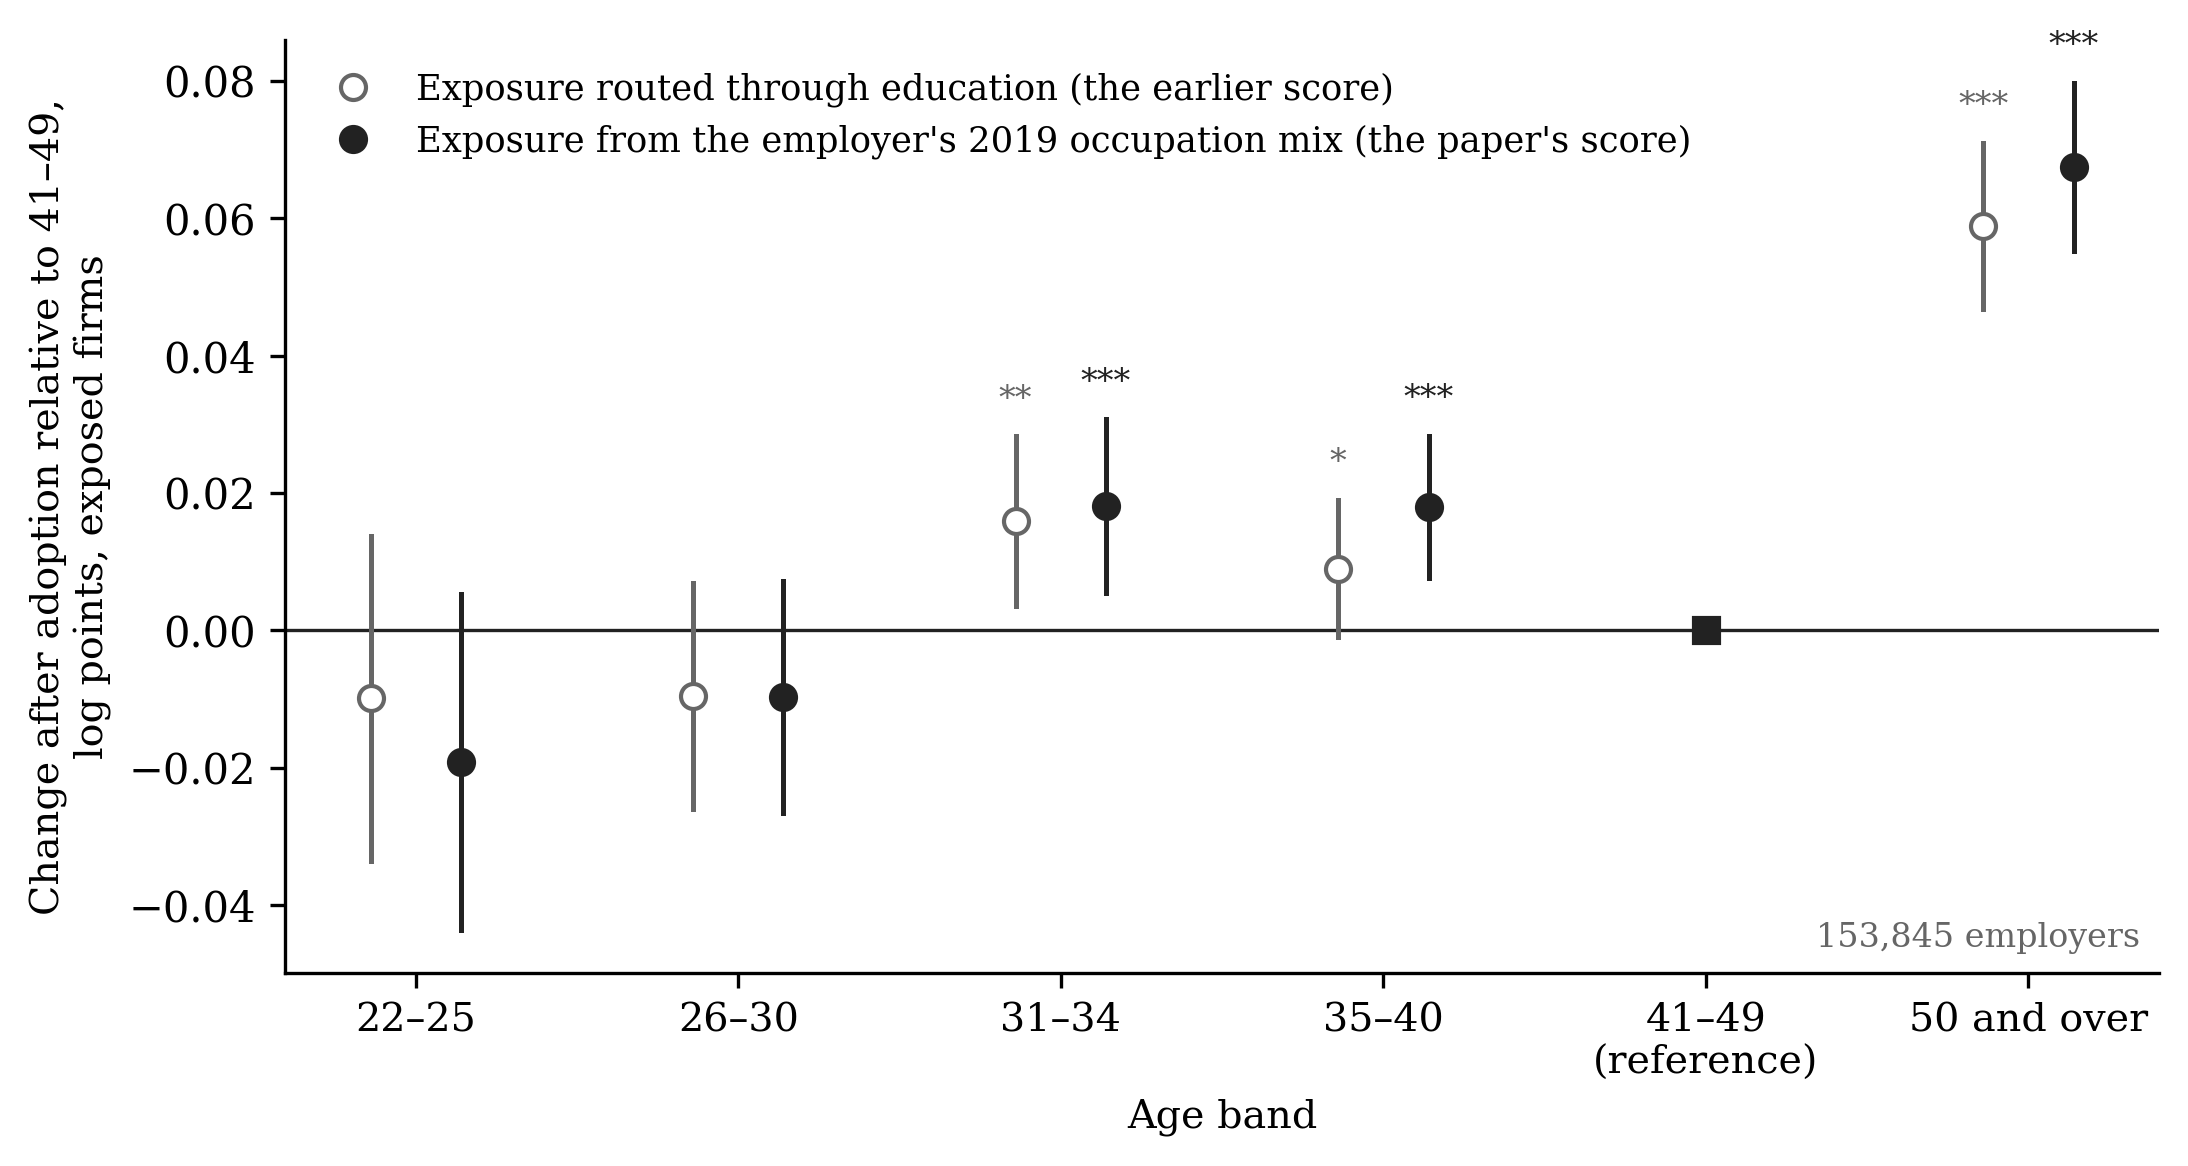
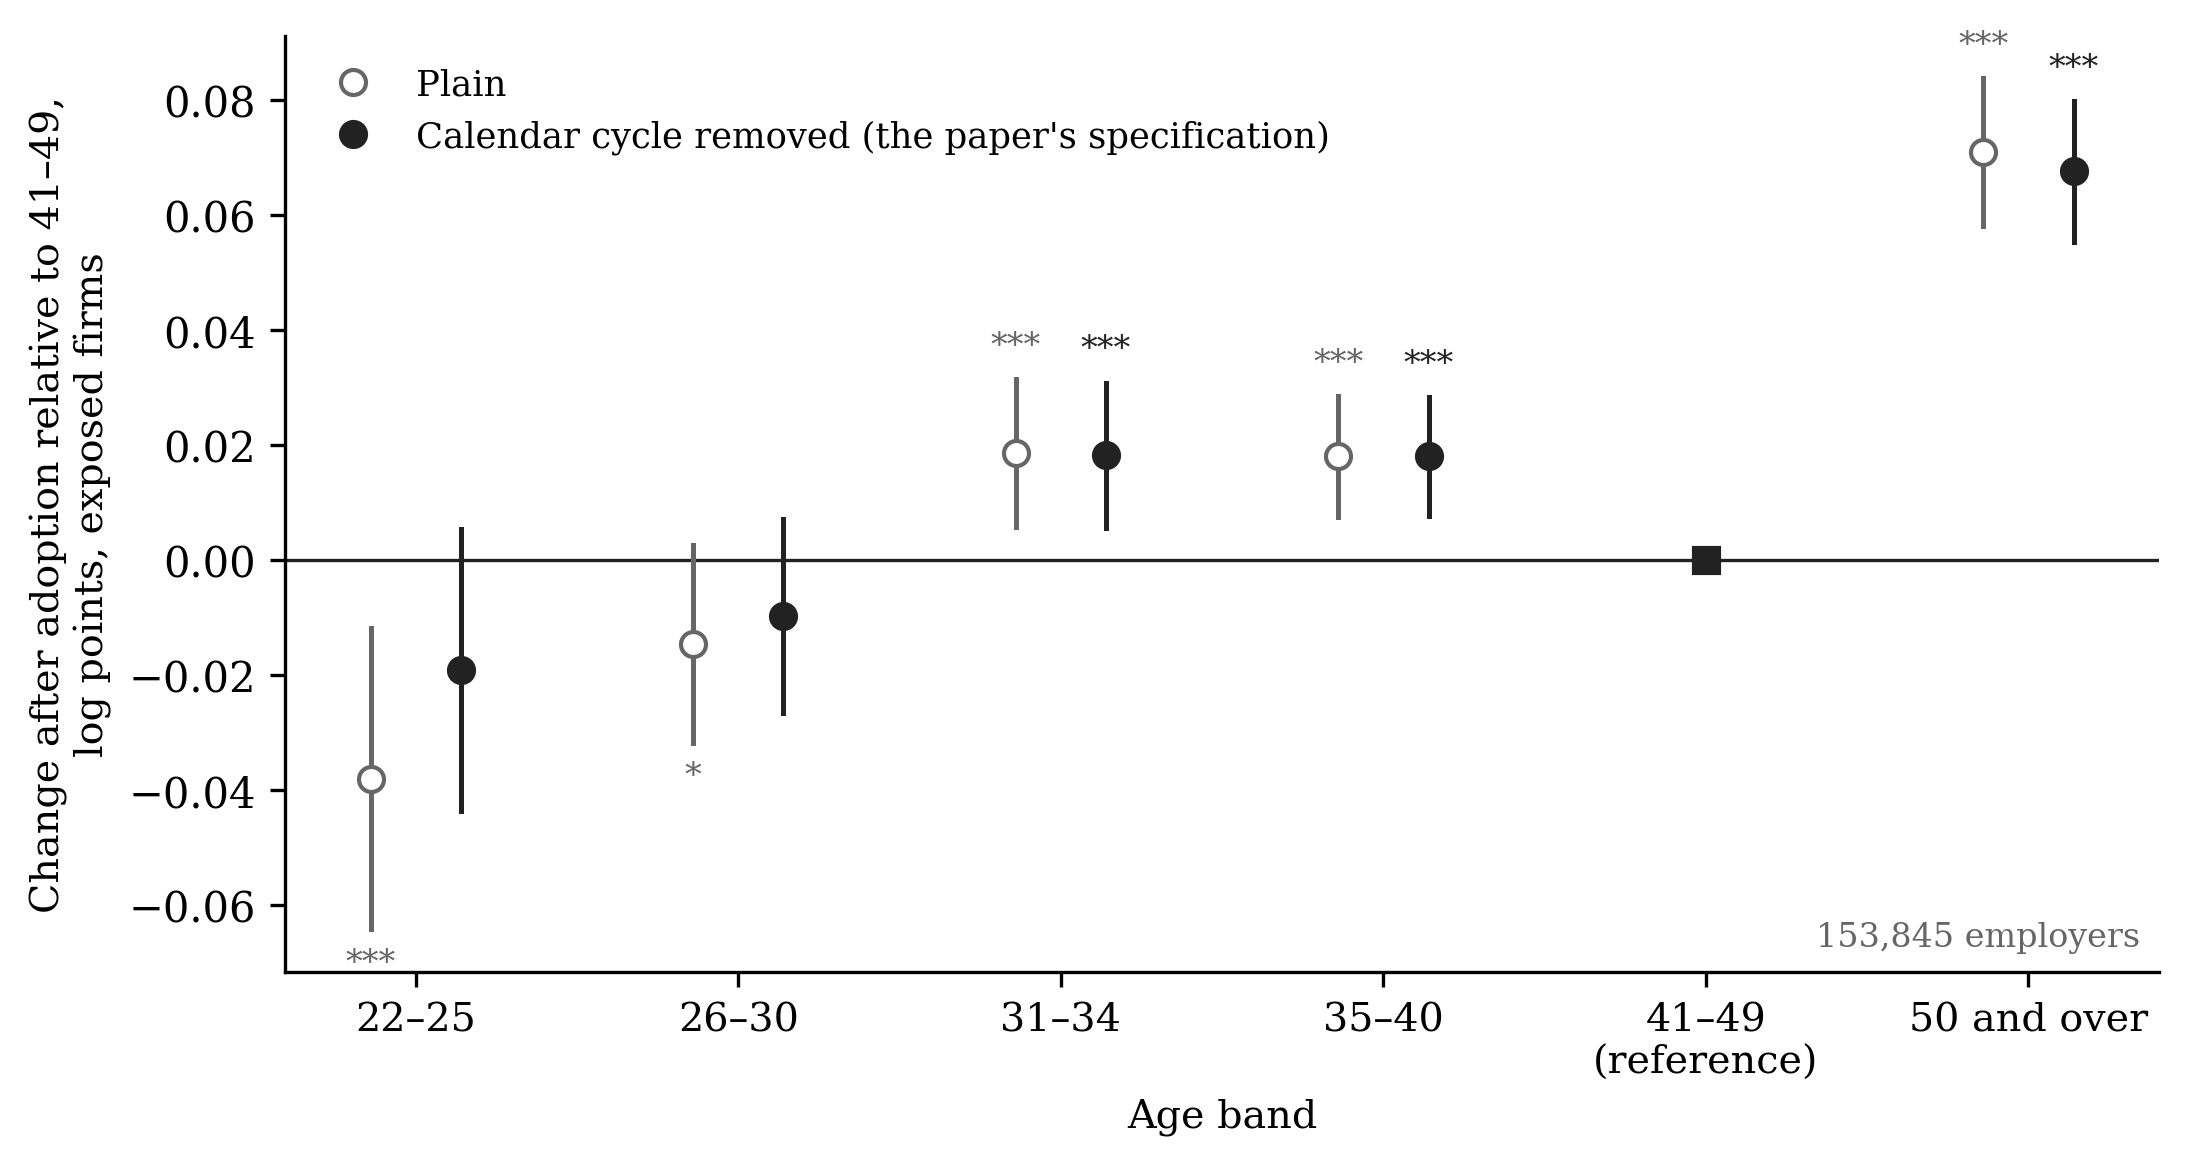
Lane 32 applied: the plain path from 2019 is on the occupation route
Figure III.1 and Table III.2 are rebuilt from lane 32's export, 26
quarters from 2019Q1 with 2022Q1 omitted, on 43,749,654 cells at 22-25
and 48,918,480 at 26-30. The last education-route disclosure in the
appendix is deleted with them.

The drift numbers in the text are unchanged and stay lane 29b's, which
is the row Table 1 prints. The refit in this export is the check on
them, not a replacement: it runs on the 2019-start frame that part A
builds for the path, so it has about eight per cent more cells by
construction, and it agrees to within a fiftieth of a standard error at
both bands with the same verdicts.

Claude-Session: https://claude.ai/code/session_01Ne4TL9xKpGBakALMCR9kK6

diff --git a/revision/tables/tableA_prepath.tex b/revision/tables/tableA_prepath.tex
@@ -2,32 +2,32 @@
 \toprule
 Quarter & 22--25 & 26--30 \\
 \midrule
-2019Q1 & $+$0.0753$^{*}$ (0.0159) & $-$0.0161 (0.0113) \\
-2019Q2 & $+$0.0935$^{*}$ (0.0183) & $-$0.0132 (0.0112) \\
-2019Q3 & $+$0.1410$^{*}$ (0.0237) & $-$0.0045 (0.0111) \\
-2019Q4 & $+$0.2117$^{*}$ (0.0176) & $+$0.0353$^{*}$ (0.0106) \\
-2020Q1 & $+$0.0717$^{*}$ (0.0125) & $-$0.0115 (0.0086) \\
-2020Q2 & $+$0.0571$^{*}$ (0.0176) & $-$0.0141 (0.0087) \\
-2020Q3 & $+$0.0550$^{*}$ (0.0210) & $-$0.0215$^{*}$ (0.0085) \\
-2020Q4 & $+$0.1465$^{*}$ (0.0148) & $+$0.0154$^{*}$ (0.0077) \\
-2021Q1 & $-$0.0037 (0.0091) & $-$0.0242$^{*}$ (0.0054) \\
-2021Q2 & $+$0.0192 (0.0120) & $-$0.0147$^{*}$ (0.0053) \\
-2021Q3 & $+$0.0509$^{*}$ (0.0192) & $-$0.0087 (0.0055) \\
-2021Q4 & $+$0.1506$^{*}$ (0.0127) & $+$0.0350$^{*}$ (0.0050) \\
+2019Q1 & $+$0.0789$^{*}$ (0.0153) & $-$0.0034 (0.0115) \\
+2019Q2 & $+$0.0920$^{*}$ (0.0183) & $-$0.0016 (0.0114) \\
+2019Q3 & $+$0.1367$^{*}$ (0.0233) & $+$0.0042 (0.0113) \\
+2019Q4 & $+$0.2197$^{*}$ (0.0175) & $+$0.0481$^{*}$ (0.0108) \\
+2020Q1 & $+$0.0737$^{*}$ (0.0120) & $-$0.0054 (0.0087) \\
+2020Q2 & $+$0.0592$^{*}$ (0.0179) & $-$0.0071 (0.0088) \\
+2020Q3 & $+$0.0568$^{*}$ (0.0211) & $-$0.0147 (0.0085) \\
+2020Q4 & $+$0.1512$^{*}$ (0.0143) & $+$0.0206$^{*}$ (0.0077) \\
+2021Q1 & $-$0.0023 (0.0090) & $-$0.0219$^{*}$ (0.0054) \\
+2021Q2 & $+$0.0194 (0.0119) & $-$0.0111$^{*}$ (0.0054) \\
+2021Q3 & $+$0.0411$^{*}$ (0.0190) & $-$0.0080 (0.0056) \\
+2021Q4 & $+$0.1580$^{*}$ (0.0121) & $+$0.0407$^{*}$ (0.0049) \\
 2022Q1 & reference & reference \\
-2022Q2 & $+$0.0312$^{*}$ (0.0095) & $+$0.0064$^{*}$ (0.0029) \\
-2022Q3 & $+$0.0733$^{*}$ (0.0181) & $+$0.0160$^{*}$ (0.0046) \\
-2022Q4 & $+$0.1664$^{*}$ (0.0135) & $+$0.0613$^{*}$ (0.0050) \\
-2023Q1 & $+$0.0107 (0.0117) & $+$0.0101 (0.0066) \\
-2023Q2 & $+$0.0228 (0.0144) & $+$0.0090 (0.0073) \\
-2023Q3 & $+$0.0526$^{*}$ (0.0208) & $+$0.0107 (0.0083) \\
-2023Q4 & $+$0.1348$^{*}$ (0.0171) & $+$0.0467$^{*}$ (0.0084) \\
-2024Q1 & $+$0.0037 (0.0156) & $-$0.0034 (0.0098) \\
-2024Q2 & $+$0.0106 (0.0171) & $-$0.0057 (0.0104) \\
-2024Q3 & $+$0.0177 (0.0220) & $-$0.0118 (0.0109) \\
-2024Q4 & $+$0.0988$^{*}$ (0.0195) & $+$0.0239$^{*}$ (0.0112) \\
-2025Q1 & $+$0.0110 (0.0242) & $-$0.0500$^{*}$ (0.0138) \\
-2025Q2 & $-$0.0180 (0.0246) & $-$0.0680$^{*}$ (0.0158) \\
+2022Q2 & $+$0.0287$^{*}$ (0.0096) & $+$0.0070$^{*}$ (0.0029) \\
+2022Q3 & $+$0.0609$^{*}$ (0.0182) & $+$0.0137$^{*}$ (0.0047) \\
+2022Q4 & $+$0.1686$^{*}$ (0.0133) & $+$0.0607$^{*}$ (0.0050) \\
+2023Q1 & $+$0.0036 (0.0118) & $+$0.0049 (0.0067) \\
+2023Q2 & $+$0.0150 (0.0145) & $+$0.0043 (0.0074) \\
+2023Q3 & $+$0.0354 (0.0210) & $+$0.0027 (0.0083) \\
+2023Q4 & $+$0.1326$^{*}$ (0.0172) & $+$0.0427$^{*}$ (0.0086) \\
+2024Q1 & $-$0.0170 (0.0161) & $-$0.0112 (0.0099) \\
+2024Q2 & $-$0.0100 (0.0176) & $-$0.0148 (0.0105) \\
+2024Q3 & $-$0.0123 (0.0223) & $-$0.0225$^{*}$ (0.0111) \\
+2024Q4 & $+$0.0924$^{*}$ (0.0197) & $+$0.0155 (0.0114) \\
+2025Q1 & $-$0.0133 (0.0250) & $-$0.0599$^{*}$ (0.0139) \\
+2025Q2 & $-$0.0436 (0.0250) & $-$0.0785$^{*}$ (0.0160) \\
 \bottomrule
 \end{tabular}
 
@@ -37,7 +37,7 @@ Quarter & 22--25 & 26--30 \\
 employer-by-month, employer-by-age and month-by-age effects and no calendar
 terms; 2022Q1 is the reference. Entries are the coefficient with the standard
 error clustered by employer in parentheses; $^{*}$ marks significance at the five
-per cent level. The panel holds 47{,}585{,}148 cells at 22--25 and 54{,}653{,}274
+per cent level. The panel holds 43{,}749{,}654 cells at 22--25 and 48{,}918{,}480
 at 26--30. Figure~\ref{fig:prepath} draws the same coefficients by calendar
 quarter.
 \end{minipage}

diff --git a/revision/local/l32_tab_prepath.py b/revision/local/l32_tab_prepath.py
@@ -73,7 +73,14 @@ sys.path.insert(0, str(REV))
 from config import V2_TAB  # noqa: E402
 
 OUT = REV / "output"
+# Lane 32 ran script 78's part A on the occupation route, the score the
+# paper reports. Lane 25a's export is the education route's and stays
+# reachable by passing its directory; the two name the same files
+# differently, so every name is tried in turn.
+LANE32 = OUT / "round3_20260923-1234-lane32"
 LANE25A = OUT / "round3_20260922-1333-lane25a-ADG"
+PATH_NAMES = ("occ_route_prepath.csv", "prepath_plain.csv")
+SUMMARY_NAMES = ("86_summary.txt", "78_summary.txt")
 # The manuscript repository is a sibling of this one; the paper \input{}s
 # the table from there, inside the float that carries its caption.
 PAPER_TAB = REV.parents[1] / "canaries-sweden-paper" / "tables"
@@ -83,10 +90,21 @@ REFERENCE = "2022Q1"
 QUARTERS = [f"{y}Q{q}" for y in range(2019, 2026) for q in (1, 2, 3, 4)
             if not (y == 2025 and q > 2)]
 CELL = re.compile(r"^\$([-+])\$([0-9.]+)(\$\^\{\*\}\$)? \(([0-9.]+)\)$")
-SUMMARY_BAND = re.compile(r"^\s+(22-25|26-30):\s*$")
+SUMMARY_BAND = re.compile(r"^\s+(22-25|26-30):(\s*$|\s+\d+ quarters)")
 SUMMARY_ROW = re.compile(
     r"^\s+(\d{4}Q\d)\s+([-+][0-9.]+) \(([0-9.]+)\)(\s+\*)?\s*$")
 SUMMARY_REF = re.compile(r"^\s+(\d{4}Q\d)\s+reference\s*$")
+
+
+def first_of(default_dir: Path, names) -> Path:
+    """The first of `names` that the directory holds."""
+    d = Path(sys.argv[1]) if len(sys.argv) > 1 else default_dir
+    for n in names:
+        p = d / n
+        if p.exists():
+            print(f"  reading {p}")
+            return p
+    raise SystemExit(f"  missing input: none of {names} in {d}")
 
 
 def source(default_dir: Path, name: str) -> Path:
@@ -125,8 +143,16 @@ def summary_part_a(path: Path) -> dict[tuple[str, str], str]:
     printed coefficient of every quarter, with its star. This is a second
     record of the same fits, and the table is written only if the two
     agree."""
+    text = path.read_text(encoding="utf-8", errors="replace")
+    # 78 prints the path first and ends it at A(ii); 86 prints a gate and a
+    # drift block before it, so there the collection starts at its header.
+    marker = "THE PLAIN PATH:"
+    started = marker not in text
     said, band = {}, None
-    for line in path.read_text(encoding="utf-8", errors="replace").splitlines():
+    for line in text.splitlines():
+        if not started:
+            started = line.strip() == marker
+            continue
         if "(ii)" in line:
             break
         m = SUMMARY_BAND.match(line)
@@ -151,8 +177,8 @@ def summary_part_a(path: Path) -> dict[tuple[str, str], str]:
 
 
 def main() -> int:
-    d = pd.read_csv(source(LANE25A, "prepath_plain.csv"))
-    said = summary_part_a(source(LANE25A, "78_summary.txt"))
+    d = pd.read_csv(first_of(LANE32, PATH_NAMES))
+    said = summary_part_a(first_of(LANE32, SUMMARY_NAMES))
     cells, panel = {}, {}
     for band in BANDS:
         b = d[d.young_band == band]
@@ -171,7 +197,7 @@ def main() -> int:
             raise SystemExit(f"  {band}: one panel size expected, found {n}")
         panel[band] = n[0]
 
-        v = pd.read_csv(source(LANE25A,
+        v = pd.read_csv(source(LANE32,
                                f"vcov_s78_prepath_{band.replace('-', '_')}.csv"),
                         index_col=0)
         if f"pq_{REFERENCE}_x_high_x_young" in v.index:

diff --git a/revision/local/l28_fig_prepath.py b/revision/local/l28_fig_prepath.py
@@ -57,8 +57,13 @@ from _figsafe import save  # noqa: E402
 from config import DARK_BLUE, ORANGE, TEAL, GRAY, DARK_TEXT  # noqa: E402
 
 PAPER = REV.parent.parent / "canaries-sweden-paper"
-# The script 78 export (lane 25a) the final-code manifest names.
+# Lane 32 ran script 78's part A on the occupation route, which is the
+# score the paper reports. Lane 25a's own export is the education route's
+# and stays reachable by passing its directory on the command line; the
+# two name the same frame differently, so both names are tried.
+LANE32 = REV / "output" / "round3_20260923-1234-lane32"
 LANE25A = REV / "output" / "round3_20260922-1333-lane25a-ADG"
+NAMES = ("occ_route_prepath.csv", "prepath_plain.csv")
 
 BAND = "22-25"
 REFERENCE = "2022Q1"
@@ -73,9 +78,11 @@ STYLE = {
 
 
 def main(export_dir: Path) -> int:
-    src = export_dir / "prepath_plain.csv"
-    if not src.exists():
-        raise SystemExit(f"  missing input: {src}")
+    src = next((export_dir / n for n in NAMES if (export_dir / n).exists()),
+               None)
+    if src is None:
+        raise SystemExit(f"  missing input: none of {NAMES} in {export_dir}")
+    print(f"  reading {src}")
     d = pd.read_csv(src)
     d = d[d["young_band"] == BAND].copy()
     if d.empty:
@@ -143,4 +150,4 @@ def main(export_dir: Path) -> int:
 
 
 if __name__ == "__main__":
-    raise SystemExit(main(Path(sys.argv[1]) if len(sys.argv) > 1 else LANE25A))
+    raise SystemExit(main(Path(sys.argv[1]) if len(sys.argv) > 1 else LANE32))

diff --git a/revision/output/round3_20260923-1125-lane31/FILING-NOTE.md b/revision/output/round3_20260923-1125-lane31/FILING-NOTE.md
@@ -9,8 +9,12 @@ and it carries no descriptive and no split section. The three-part job (parts PD
 10:13 and had written `occ_route_descriptive_full.csv` and `occ_route_split65.csv` by the time
 the folder was copied at 11:25, but had not yet written its own summary. So the exports are
 complete and the script's own text for parts D and S is missing; the verdicts below were read
-off the CSVs, which is not how the read rules are meant to be settled. **If `output_85` is still
-on the share, its `85_summary.txt` is now the PDS one and is worth collecting.**
+off the CSVs, which is not how the read rules are meant to be settled. **The share was checked at 12:37 and it is not there.** A second copy of `output_85` was handed
+over as `~/Downloads/MyFiles1237`; all seven files are byte-identical to these, and
+`85_summary.txt` is still the 09:21 job's. So the three-part run never wrote a summary: it got
+through parts D and S, whose CSVs are here, and did not reach the end. Nothing is lost but the
+printed verdicts, because both jobs fit the same arms on the same panel and part P's export is
+identical; the verdicts below were read off the CSVs instead.
 
 ## What the exports say
 
